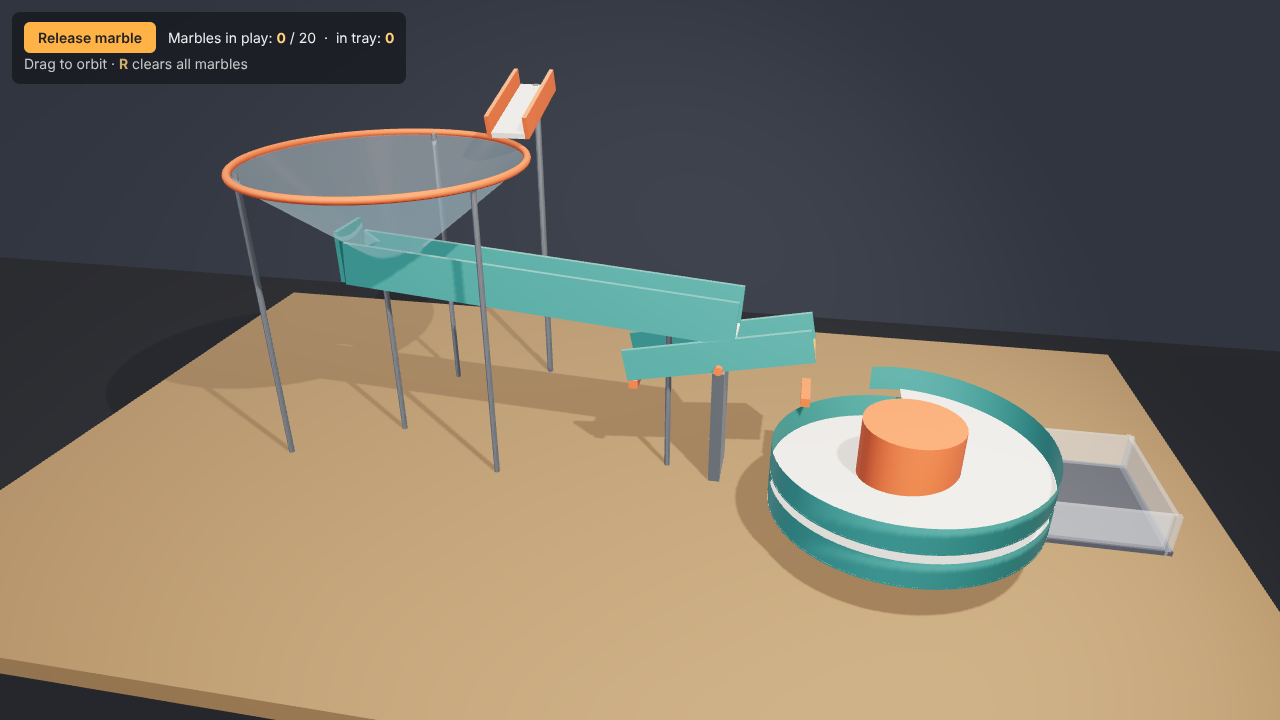
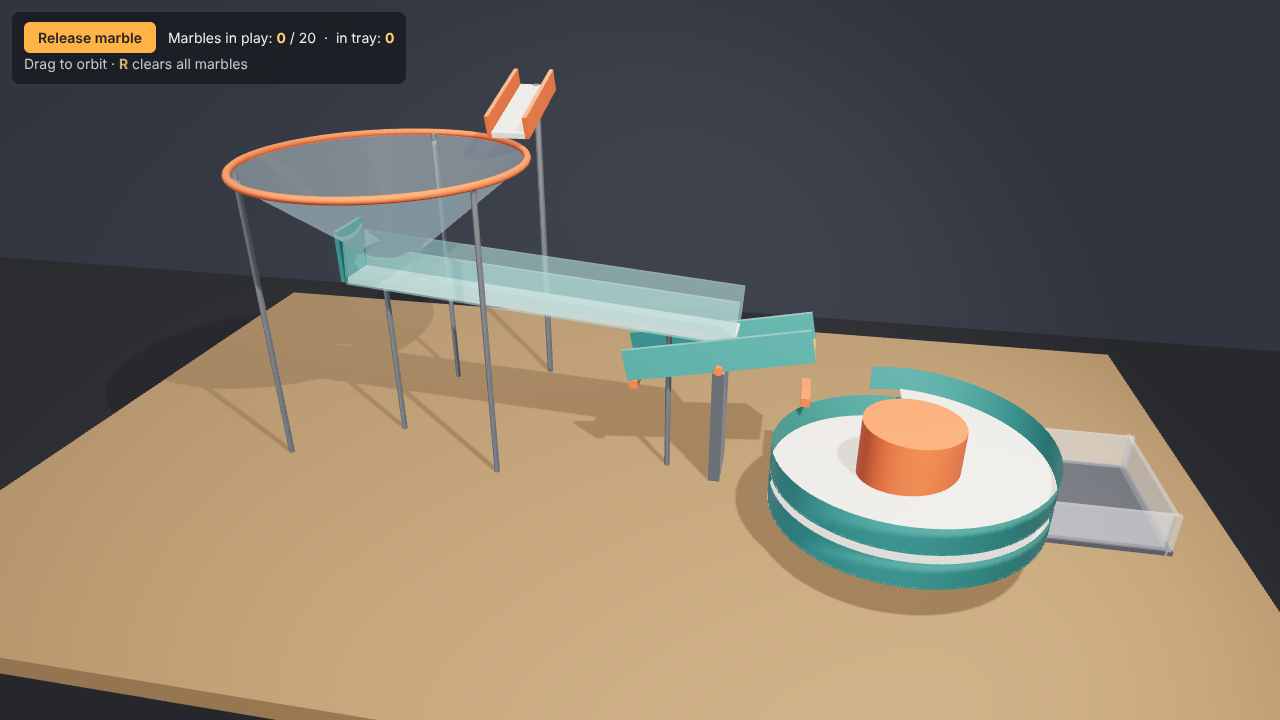
C iter 5: translucent chute rails; final judge 0 errors; cost.json + iteration log

Changed region(s): [[0.25, 0.3361, 0.5938, 0.4889]]

diff --git a/runs/claude-code/C/index.html b/runs/claude-code/C/index.html
@@ -87,6 +87,7 @@ scene.add(new THREE.AmbientLight(0xffffff, 0.15));
 const matTable = new THREE.MeshStandardMaterial({ color: 0x8a6d4b, roughness: 0.7, metalness: 0.0 });
 const matTrack = new THREE.MeshStandardMaterial({ color: 0xe9e4da, roughness: 0.55, metalness: 0.05 });
 const matRail = new THREE.MeshStandardMaterial({ color: 0x3f8f8a, roughness: 0.5 });
+const matRailGlass = new THREE.MeshPhysicalMaterial({ color: 0x7fd3cc, roughness: 0.15, transparent: true, opacity: 0.4, side: THREE.DoubleSide });
 const matAccent = new THREE.MeshStandardMaterial({ color: 0xd9643a, roughness: 0.5 });
 const matFunnel = new THREE.MeshPhysicalMaterial({ color: 0x9fd3e8, roughness: 0.15, transparent: true, opacity: 0.45, side: THREE.DoubleSide });
 const matMetal = new THREE.MeshStandardMaterial({ color: 0x9aa0a8, roughness: 0.35, metalness: 0.9 });
@@ -181,7 +182,7 @@ addChute(LAUNCH_TOP, LAUNCH_END, 0.24, matTrack, matAccent, 0.16);
 
 // ============================================================ chute from the funnel hole to the seesaw
 const DROP_PT = new THREE.Vector3(FUN.cx, 1.22, FUN.cz);                 // under the hole
-addChute(new THREE.Vector3(FUN.cx - 0.3, 1.26, FUN.cz), new THREE.Vector3(0.85, 1.07, 0.0), 0.26, matTrack, matRail, 0.3);
+addChute(new THREE.Vector3(FUN.cx - 0.3, 1.26, FUN.cz), new THREE.Vector3(0.85, 1.07, 0.0), 0.26, matTrack, matRailGlass, 0.3);
 // a back-stop so a marble dropping from the hole cannot bounce backwards off the chute
 addBox(new THREE.Vector3(FUN.cx - 0.32, 1.42, FUN.cz), new THREE.Vector3(0.03, 0.36, 0.34), new THREE.Quaternion(), matRail);
 { // support posts

diff --git a/runs/claude-code/C/iterations.md b/runs/claude-code/C/iterations.md
@@ -10,3 +10,8 @@ Physics verification needs marbles released and time to pass, which the judge ca
 | 2 | 11:15 | Friction → exponential rate per second scaled by h; spiral θ tracked only when within the spiral's radius and initialised to the highest surface at/below the marble | yes | 0 | scratch C2/* | Marbles now flow through funnel → chute → seesaw (tips to −0.19 rad and returns) → spiral. But they left the spiral through the outer-wall gap 0.9 rad early and landed on the table; the exit chute was flat/uphill so arrivals rolled back out of the tray; one marble was knocked over the funnel rim by a collision. |
 | 3 | 11:18 | Wall gap narrowed to the last 0.12 rad; spiral bottom raised to 0.17 so the exit chute slopes down into the tray; tray near-wall gets an opening for the chute; launch chute drop lowered; funnel wall continues 0.35 above the rim for physics; marble–marble restitution 0.25→0.12 | yes | 0 | scratch C3/C4 | 20-marble run: 14/20 in tray, 6 on the table. Trace: the losses were sideways hops over the 0.10 m rails on the long chute (marbles leave the funnel hole with vortex velocity) and off the seesaw. Button correctly disables at 20. |
 | 4 | 11:22 | Long-chute rails 0.3 tall, seesaw rails 0.22, box restitution 0.05 | yes | 0 | scratch C5/* | 20/20 in tray, 0 lost, no marble ever below the table (no tunnelling), pile settles to v=0 in two layers, R clears to 0/20. 10-marble trace: 10/10, nothing stuck. Checklist 6/6 by own judgement. Tall opaque rails now hide marbles on the chute. |
+| 5 | 11:26 | Long-chute rails made translucent so marbles stay visible inside the tall rails | yes | 0 | t0/t3s/t8s (final) | Final judge pass. Stop: checklist complete by own judgement. |
+
+**Stop reason:** checklist complete (own judgement). Wall-clock 11:07:20 → 11:26:30 ≈ 19 min.
+
+**Where it got stuck:** every iteration after the first was a physics-flow bug that the judge (console + 3 screenshots of an empty track) could never have detected: per-substep friction (units bug), spiral angle unwrapping latching on the wrong turn, an exit gap in the wrong place, an uphill exit chute, rails too low for the vortex exit velocity. Each was found by tracing marble positions over simulated time, not by looking at pictures. No scaffold existed for any of this; the collision code was written from scratch and worked structurally on the first run (zero console errors every iteration) but was wrong in four quantitative details.
